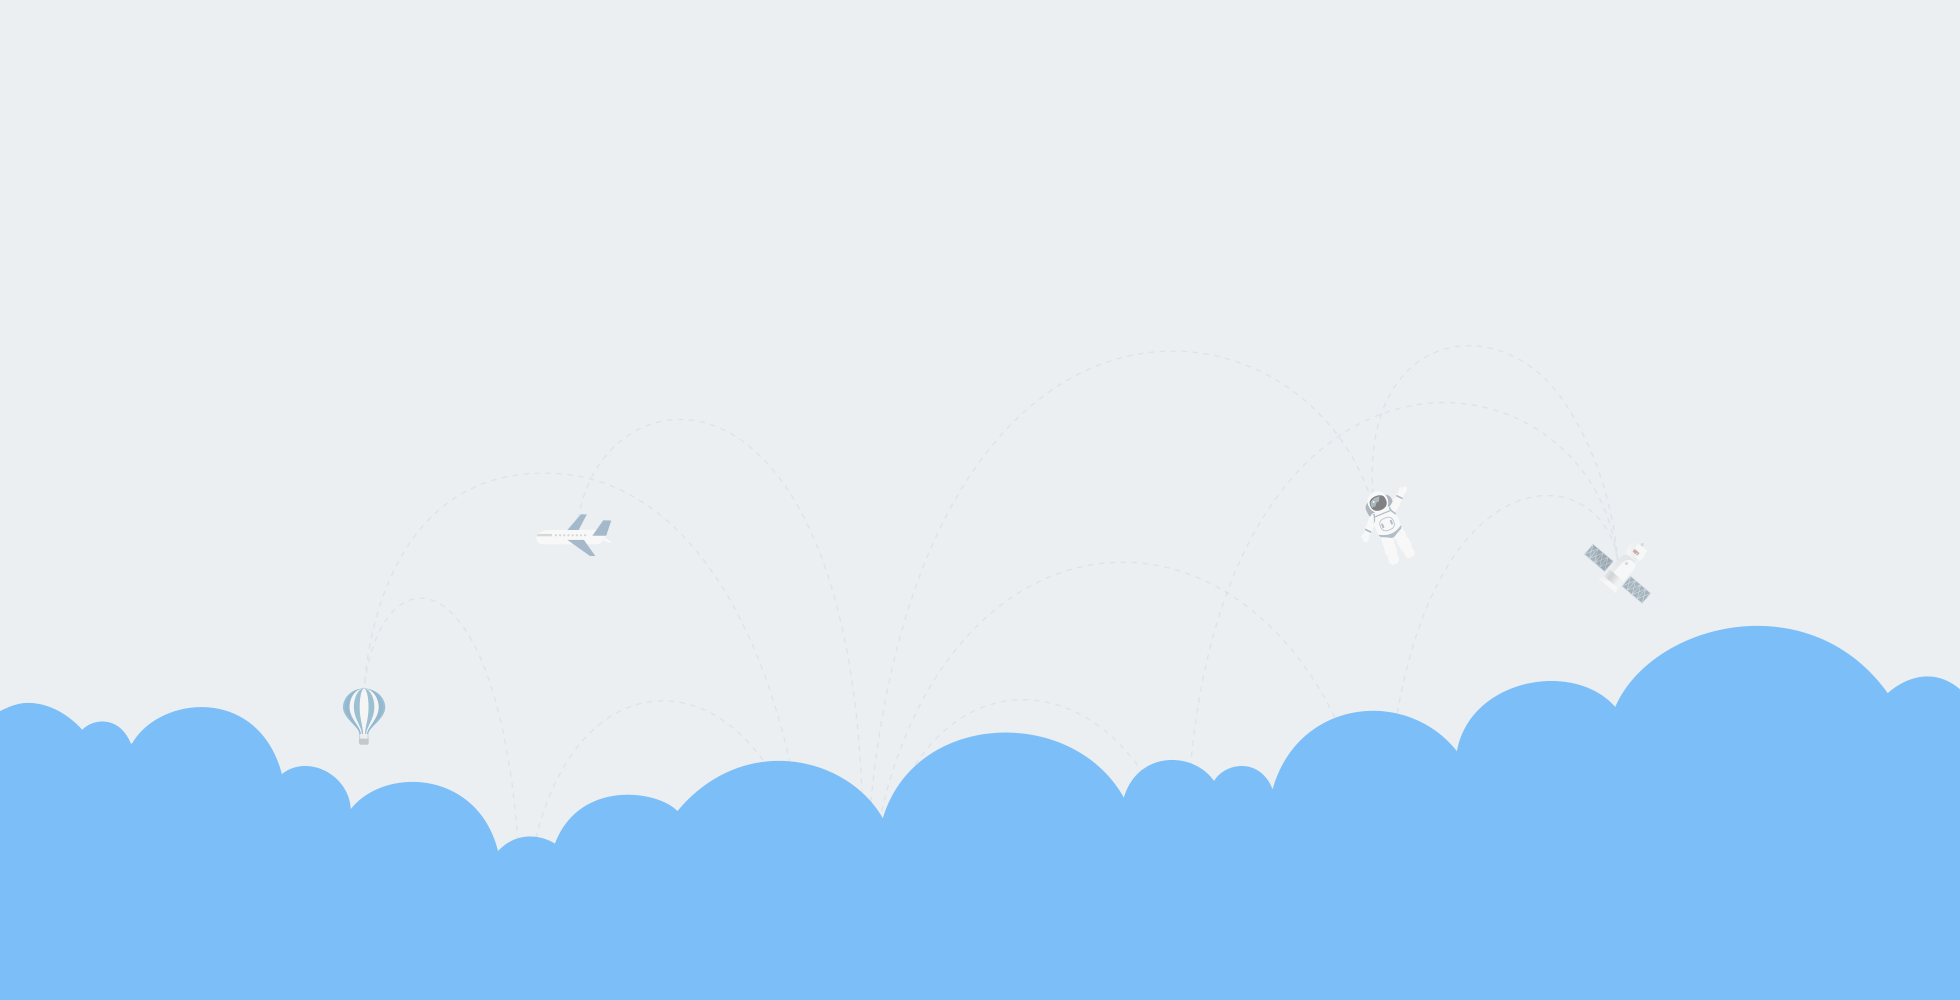
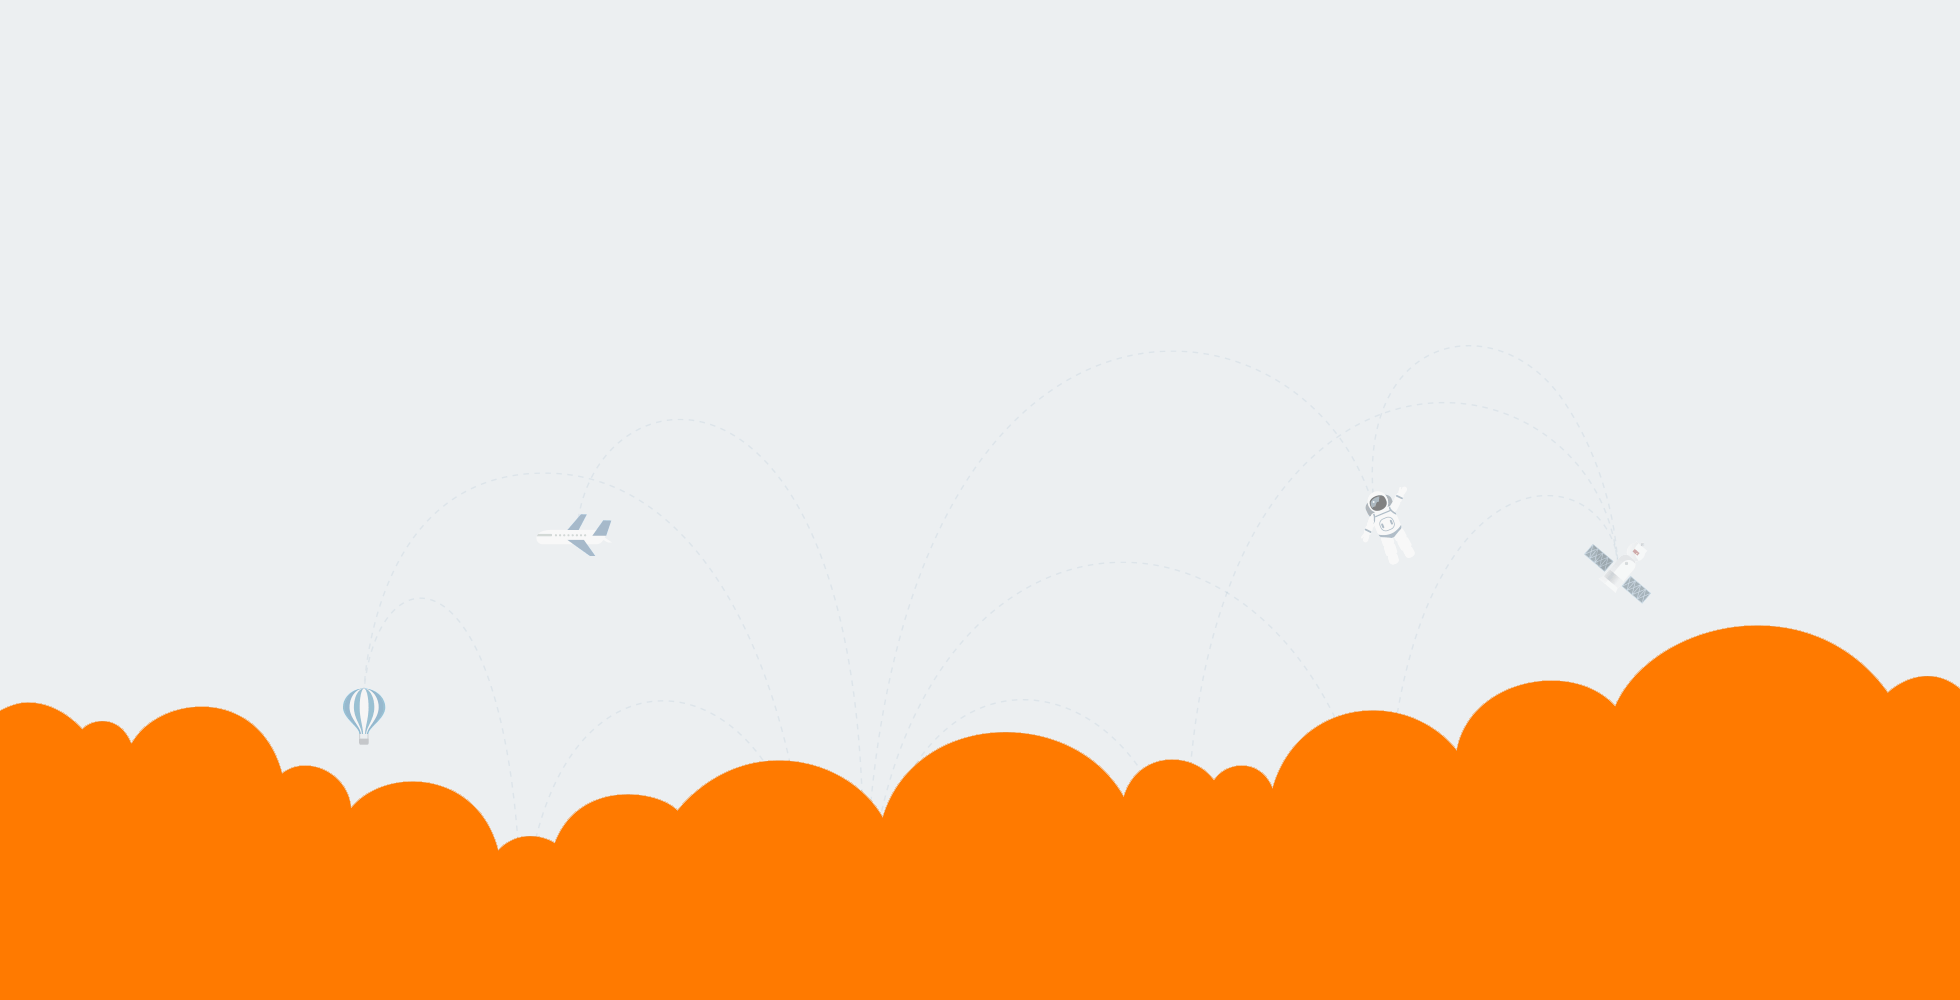
修改整体颜色为淘系橙色

Changed region(s): [[0.0, 0.62, 1.0, 1.0]]

diff --git a/public/frontend/css/layui-rewrit.css b/public/frontend/css/layui-rewrit.css
@@ -16,30 +16,30 @@
 }
 
 .layui-tab-brief > .layui-tab-title .layui-this {
-    color: #1E9FFF !important;
+    color: #ff7a00 !important;
 }
 
 .layui-tab-brief > .layui-tab-title .layui-this:after, .layui-tab-brief > .layui-tab-more li.layui-this:after {
     border: none !important;
     border-radius: 0 !important;
-    border-bottom: 2px solid #1E9FFF !important;
+    border-bottom: 2px solid #ff7a00 !important;
 }
 
 .layui-nav-bar, .layui-nav .layui-this:after, .layui-nav-tree .layui-nav-itemed:after {
-    background-color: #1E9FFF !important;
+    background-color: #ff7a00 !important;
 }
 
 .layui-nav-tree .layui-nav-itemed:after {
-    background-color: #1E9FFF !important;
+    background-color: #ff7a00 !important;
 }
 
 .layui-form-select dl dd.layui-this {
-    background-color: #1E9FFF !important;
+    background-color: #ff7a00 !important;
     color: #fff !important;
 }
 
 .layui-form-checked, .layui-form-checked:hover {
-    border-color: #1E9FFF !important;
+    border-color: #ff7a00 !important;
 }
 
 .layui-form-checked i, .layui-form-checked:hover i {
@@ -47,38 +47,39 @@
 }
 
 .layui-form-checkbox[lay-skin="primary"]:hover i {
-    border-color: #1E9FFF !important;
+    border-color: #ff7a00 !important;
     color: #fff !important;
 }
 
 .layui-form-checked[lay-skin="primary"] i {
-    border-color: #1E9FFF !important;
-    background-color: #1E9FFF !important;
+    border-color: #ff7a00 !important;
+    background-color: #ff7a00 !important;
     color: #fff !important;
 }
 
 .layui-form-onswitch {
     border-color: #5FB878 !important;
-    background-color: #1E9FFF !important;
+    background-color: #ff7a00 !important;
 }
 
 .layui-form-radioed i, .layui-form-radio i:hover {
-    color: #1E9FFF !important;
+    color: #ff7a00 !important;
 }
 
 .layui-nav-child dd.layui-this {
-    background-color: #1E9FFF !important;
+    background-color: #ff7a00 !important;
     color: #fff !important;
 }
 
 .layui-nav .layui-nav-child dd.layui-this a {
-    background-color: #1E9FFF !important;
+    background-color: #ff7a00 !important;
     color: #fff !important;
 }
 
 .layui-btn {
     height: 32px  !important;
     line-height: 32px  !important;
+    background-color: #ff7a00 !important;
 }
 .layui-input, .layui-textarea, .layui-select {
     height: 32px  !important;
@@ -129,3 +130,7 @@
 /*.layui-form-mid {*/
     /*line-height: 8px  !important;*/
 /*}*/
+
+.layui-bg-blue {
+    background-color: #ff7a00 !important;
+}

diff --git a/public/frontend/css/style.css b/public/frontend/css/style.css
@@ -92,7 +92,7 @@ body {
 .path span {
 	padding-left: 16px;
 	display: block;
-	border-left: 5px solid #139ff0;
+	border-left: 5px solid #ff7a00;
 	color: #000;
 }
 
@@ -103,7 +103,7 @@ body {
     top: 0;
     width: 100%;
     height: 60px;
-	background-color: #1E9FFF !important;
+	background-color: #ff7a00 !important;
 }
 .header .logo {
 	width: 170px;
@@ -115,7 +115,7 @@ body {
 	margin-top: 9px;
 }
 .header .logo .t h1 {
-	font-size: 23px;
+	font-size: 26px;
 	color: #fff;
 	float: left;
 	margin: 7px 0 0 0;
@@ -135,11 +135,11 @@ body {
 .header .nav { float:left; width:793px; height:60px;}
 .header .nav ul{ float:left;}
 .header .nav li{ float:left; height:60px; line-height:60px; position:relative;}
-.header .nav li a{ color:#c8e3f2; font-size:14px;padding:0 16px 0 15px; display:block;}
+.header .nav li a{ color:#fff; font-size:14px;padding:0 16px 0 15px; display:block;}
 .header .nav li a:hover{ text-decoration:none;}
-.header .nav li.current{ background:#118fd8;}
+.header .nav li.current{ background:#faa557;}
 .header .nav li.current a{ font-weight:bold; color:#fff;}
-.header .nav li:hover{ background:#118fd8;}
+.header .nav li:hover{ background:#faa557;}
 .header .nav li:hover a{ color:#fff;}
 .header .nav li .arrow{ border-bottom-color:#fff; position:absolute; top:47px; left:50%; margin-left:-7px; display:none;}
 .header .nav li.current .arrow{ display:block;}
@@ -274,8 +274,8 @@ body {
 	color: #fff;
 	padding: 0 0 0 35px;
 	margin: 0;
-	background-color:#139ff0;
-	border-left:2px solid #0c82c6;
+	background-color:#ff7a00;
+	border-left:2px solid #ff7a00;
 }
 .main .left .column-menu li.current .arrow{
 	display:block;
@@ -376,8 +376,7 @@ body {
 	margin-bottom: 15px;
 	color: #707070;
 	border-radius: 5px;
-	background-color: #f5faff;
-	border: 1px dashed #62b3ff;
+	border: 1px dashed #ff7a00;
 	width: calc(100% - 28px);
 	height: 100%;
 }

diff --git a/public/frontend/css/login.css b/public/frontend/css/login.css
@@ -3,12 +3,14 @@ body, button, img, input, ol, select, textarea, ul {
     font-family: "Helvetica Neue",Helvetica,"Nimbus Sans L",Arial,"Liberation Sans","Hiragino Sans GB","Source Han Sans CN Normal","Microsoft YaHei","Wenquanyi Micro Hei","WenQuanYi Zen Hei","ST Heiti",SimHei,"WenQuanYi Zen Hei Sharp",sans-serif;
     color: #333;
     line-height: 1.5;
+    background-color: rgb(249, 249, 249);
 }
 body {
     background-repeat: no-repeat;
     background-size: cover;
     background-position: right bottom;
-    background-image: url(../images/auth-bg.png);
+    /*background-image: url(../images/auth-bg.png);*/
+    background: rgb(236, 239, 241);
     margin: 0;
     padding: 0;
     background-attachment: fixed;
@@ -18,13 +20,12 @@ body {
     text-align: center;
 }
 .header .content .logo {
-    width: 260px;
-    height: 60px;
-    display: inline-block;
-    background-repeat: no-repeat;
-    background-size: cover;
-    background-position: center center;
-    background-image: url(../images/logo.png);
+    font-size: 26px;
+    color: #ff7a00;
+    margin: 7px 0 0 0;
+    height: 14px;
+    line-height: 14px;
+    padding-bottom: 2px;
 }
 .main .container {
     width: 392px;

diff --git a/resources/views/frontend/layouts/header.blade.php b/resources/views/frontend/layouts/header.blade.php
@@ -2,7 +2,7 @@
     <div class="wrapper">
         <a href="" class="logo">
             <div class="t">
-                <h1 style="text-align: center; padding-left: 30px;">千手平台</h1>
+                <h1 style="text-align: center;">淘宝发单平台</h1>
             </div>
             <div class="en"><img src="/frontend/images/en.png"></div>
         </a>

diff --git a/resources/views/frontend/layouts/auth.blade.php b/resources/views/frontend/layouts/auth.blade.php
@@ -4,6 +4,7 @@
     <meta charset="UTF-8">
     <title>千手平台 @yield('title')</title>
     <link rel="stylesheet" href="/vendor/layui/css/layui.css">
+    <link rel="stylesheet" href="/frontend/css/layui-rewrit.css">
     <link rel="stylesheet" href="/frontend/css/login.css">
     @yield('css')
 </head>

diff --git a/resources/views/frontend/auth/email.blade.php b/resources/views/frontend/auth/email.blade.php
@@ -17,7 +17,7 @@
         <div class="header">
             <div class="content">
                 <a href="">
-                    <span class="logo"></span>
+                    <span class="logo">淘宝发单平台</span>
                 </a>
             </div>
         </div>

diff --git a/resources/views/frontend/auth/register.blade.php b/resources/views/frontend/auth/register.blade.php
@@ -17,7 +17,7 @@
         <div class="header">
             <div class="content">
                 <a href="">
-                    <span class="logo"></span>
+                    <span class="logo">淘宝发单平台</span>
                 </a>
             </div>
         </div>

diff --git a/resources/views/frontend/auth/reset.blade.php b/resources/views/frontend/auth/reset.blade.php
@@ -16,7 +16,7 @@
         <div class="header">
             <div class="content">
                 <a href="">
-                    <span class="logo"></span>
+                    <span class="logo">淘宝发单平台</span>
                 </a>
             </div>
         </div>

diff --git a/resources/views/frontend/auth/login.blade.php b/resources/views/frontend/auth/login.blade.php
@@ -8,7 +8,7 @@
         <div class="header">
             <div class="content">
                 <a href="">
-                    <span class="logo"></span>
+                    <h1 class="logo">淘宝发单平台</h1>
                 </a>
             </div>
         </div>
